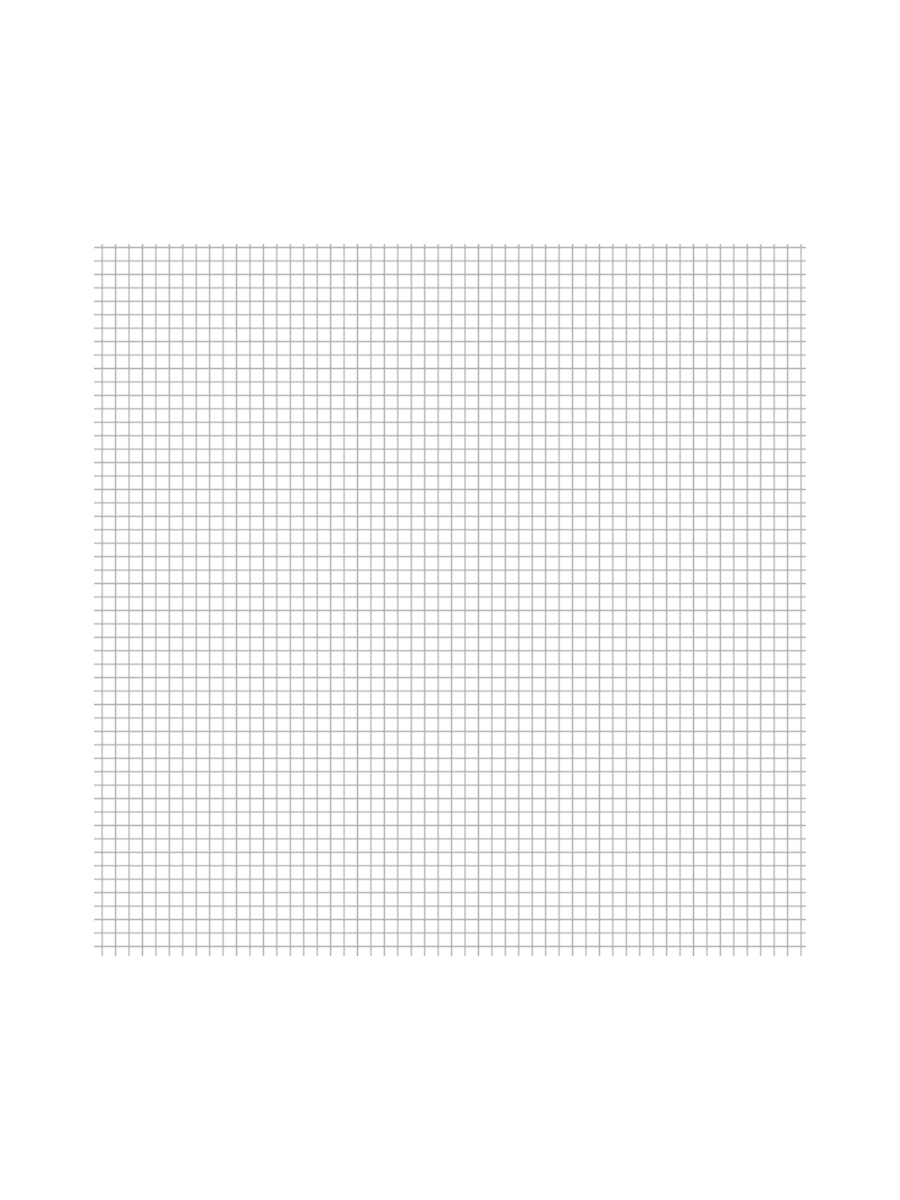
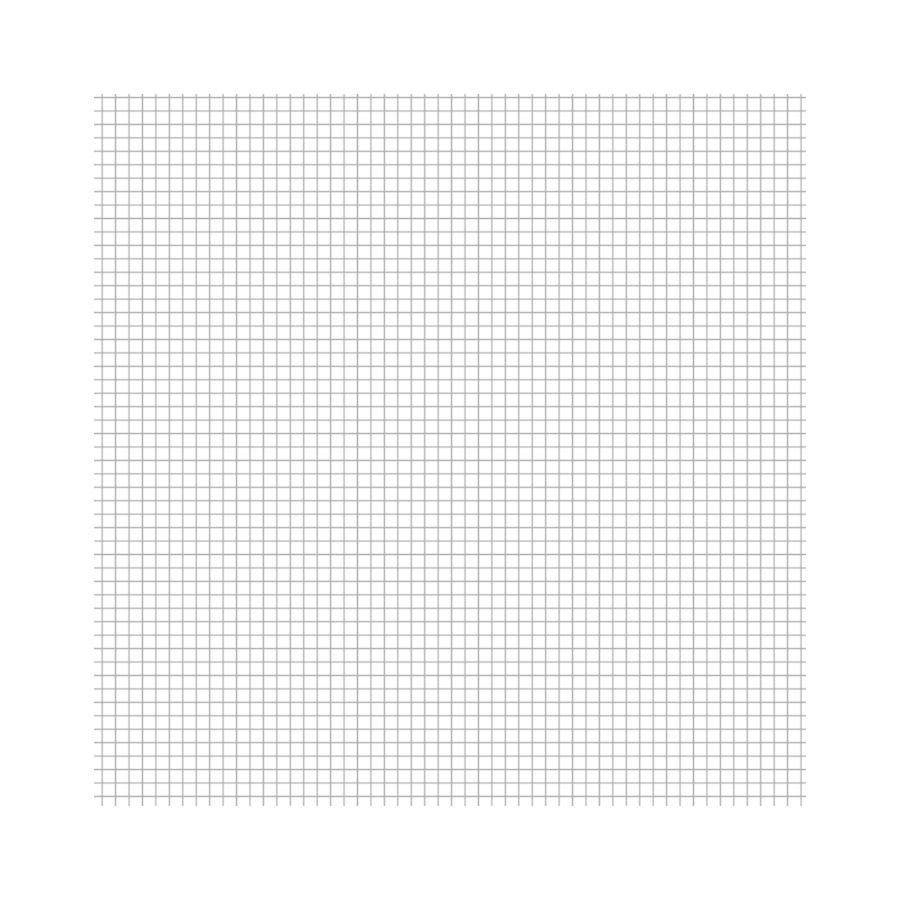
tiltitltitl

Changed region(s): [[0.0933, 0.0933, 0.9022, 0.9022]]

diff --git a/tilt/index.html b/tilt/index.html
@@ -6,22 +6,28 @@
   <meta charset="UTF-8">
   <title>Tilt</title>
       <style>
-          .box {width: 400px;
-            height: 600px;
+
+          .okv {width: 100vw;
+            height: 100vh;
+            margin:  auto;
+
+          }
+
+          .box {width: 80vmin;
+            height: 80vmin;
             background-image: url("1.png");
             background-size: cover;
             transform-style: preserve-3d;
-            margin: 0 auto;
-            transform: translateZ(0px)}
+            margin:  auto;
+            transform: translateZ(-100px)}
             
             
             
-            .inner {
-              width: 400px;
-              height: 600px;
+            .inner {width: 80vmin;
+              height: 80vmin;
             background-image: url("2.png");
             background-size: cover;
-             margin: 0 auto;
+             margin:  auto;
              transform: translateZ(100px)}
       </style>
 
@@ -31,9 +37,11 @@
 <body>
 
   <body>
-<div class="box" data-tilt data-tilt-max="12" data-tilt-speed="1500" data-tilt-scale="1" data-tilt-perspective="500">
+<div class="okv">
+  <div class="box" data-tilt data-tilt-max="15" data-tilt-speed="1500" data-tilt-scale="0.95" data-tilt-perspective="600">
             <div class="inner"></div>
         </div>
+</div>
 
 <script type="text/javascript" src="vanilla-tilt.js"></script>
 <script type="text/javascript">
